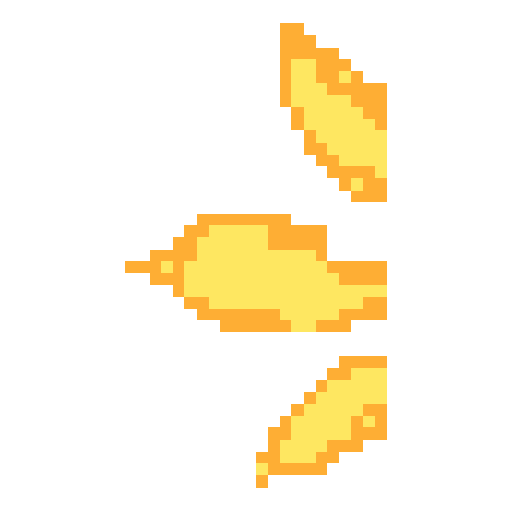
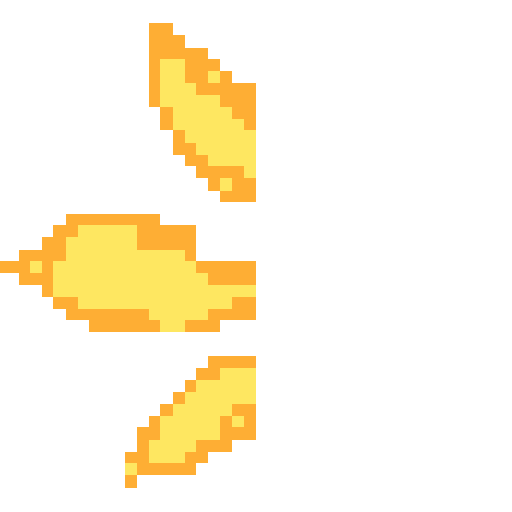
Wind sound and animation

diff --git a/BDSM/Assets/Scripts/Wind.cs b/BDSM/Assets/Scripts/Wind.cs
@@ -4,7 +4,6 @@ using UnityEngine;
 
 public class Wind : MonoBehaviour
 {
-    [SerializeField] Vector2 target;
     [SerializeField] int animTime = 30;
 
     [Header("Stats")]
@@ -16,12 +15,9 @@ public class Wind : MonoBehaviour
     List<IDamageable> damaged;
 
     int currentTime = 0;
-    new Rigidbody2D rigidbody2D;
     new Collider2D collider2D;
     bool activated = false;
     SpriteRenderer spriteRenderer;
-
-    public Vector2 Target { get => target; set => target = value; }
 
     [SerializeField] public AudioContainer windSound;
     AudioPlayer m_AudioPlayer;
@@ -30,18 +26,20 @@ public class Wind : MonoBehaviour
     {
         m_AudioPlayer = this.GetComponent<AudioPlayer>();
 
-        spriteRenderer = GetComponent<SpriteRenderer>();
-        rigidbody2D = GetComponent<Rigidbody2D>();
+        spriteRenderer = GetComponentInChildren<SpriteRenderer>();
         collider2D = GetComponent<Collider2D>();
         damaged = new List<IDamageable>();
-
-        rigidbody2D.bodyType = RigidbodyType2D.Static;
+        
         collider2D.isTrigger = true;
     }
 
     private void Start()
     {
-        // m_AudioPlayer.PlaySFX(windSound);
+
+        if (GameManager.instance)
+        {
+            GameManager.instance.GetComponent<AudioPlayer>().PlaySFX(windSound);
+        }
         activated = true;
     }
 

diff --git a/BDSM/Assets/Scripts/MageController.cs b/BDSM/Assets/Scripts/MageController.cs
@@ -40,8 +40,7 @@ public class MageController : MonoBehaviour
         if (playerController.Alive && Time.timeScale == 1 && wind != null && secondaryTimer <= 0 && playerController.Stun <= 0)
         {
             Vector3 buffer = ((targetingReticle.position - this.transform.position).normalized * 0.4f);
-            Wind newWind = Instantiate(wind, transform.position + aimingCircle.right + buffer, aimingCircle.rotation).GetComponent<Wind>();
-            newWind.Target = targetingReticle.position;
+            Wind newWind = Instantiate(wind, transform.position + aimingCircle.right / 2, aimingCircle.rotation, transform).GetComponent<Wind>();
             secondaryTimer = secondaryCooldown;
         }
     }
